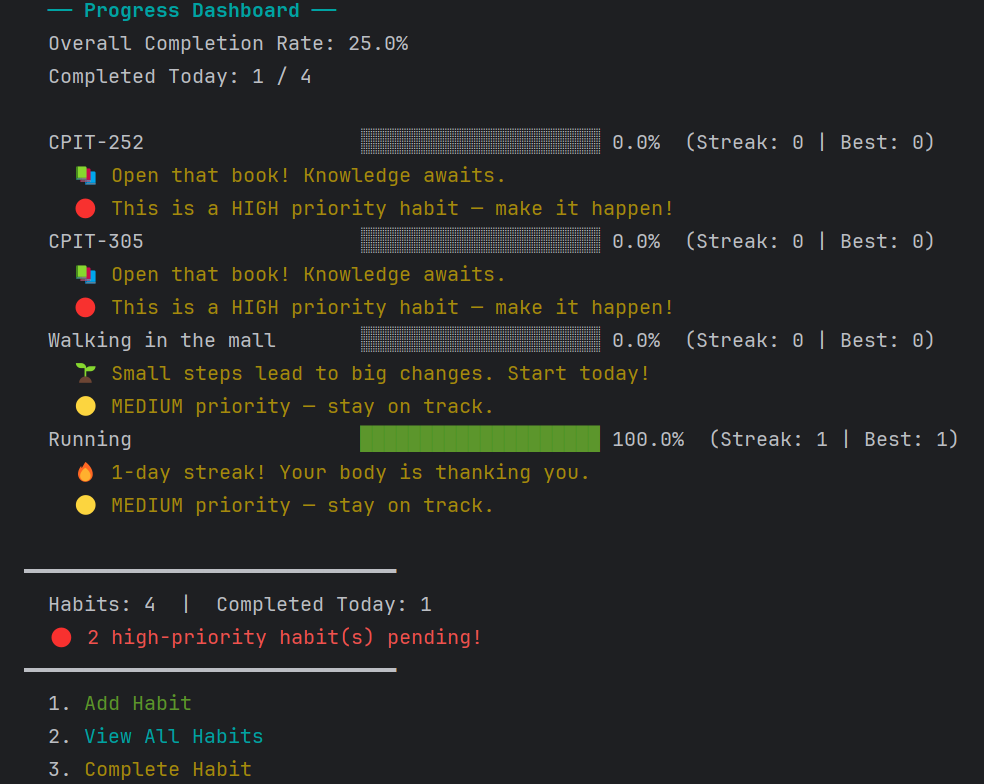
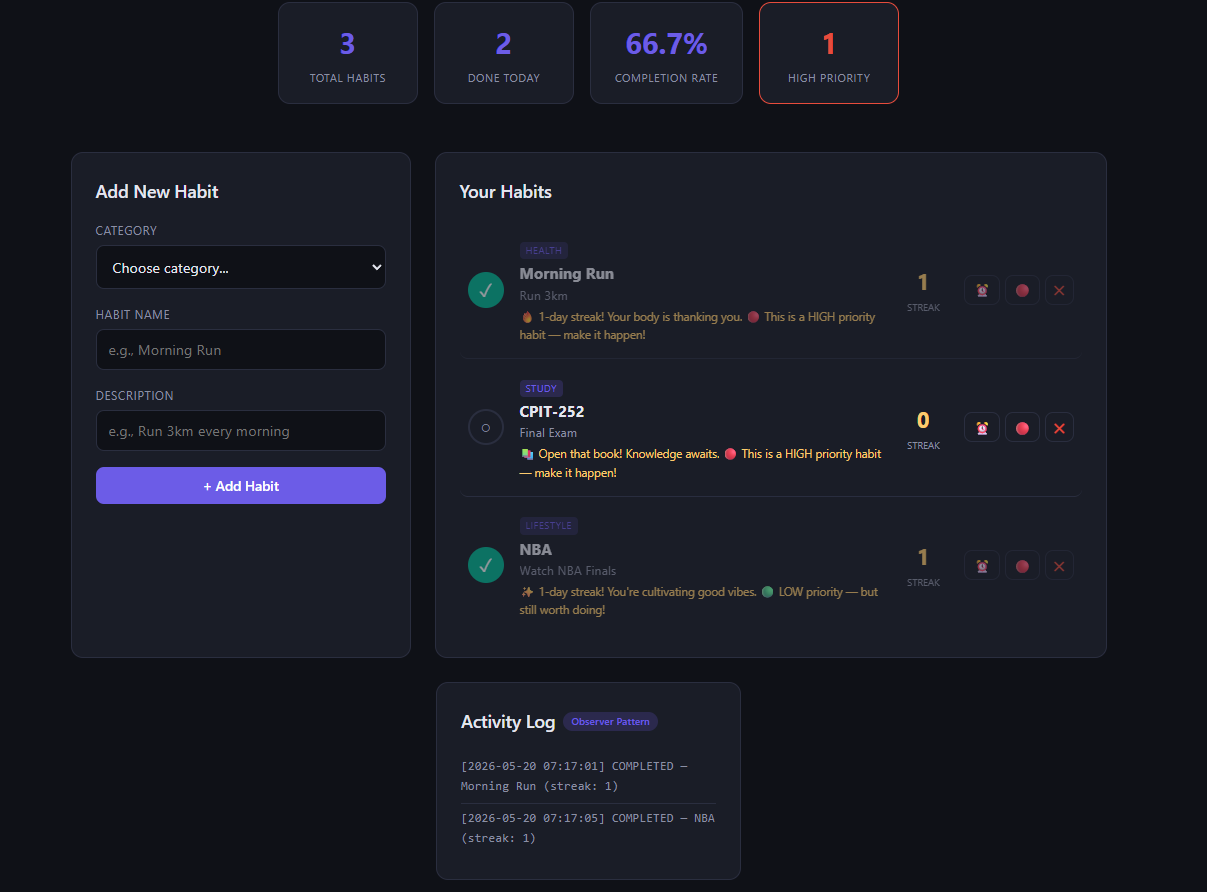
Enhance README.md file and closed #30

diff --git a/README.md b/README.md
@@ -1,84 +1,166 @@
-# HabitNova: Smart Habit Tracker
+<div align="center">
 
+# ✦ HabitNova
 
-## Description
-A console-based application designed to help students build and maintain consistent daily habits.
-Most existing trackers are either too simple (plain checklists) or too complex (full productivity suites). HabitNova
-sits in the middle — a focused, intelligent habit tracker that lets users define personal habits across categories,
-track daily completion, monitor streaks and progress, and receive motivational feedback that encourages consistency.
+**A smart habit tracker that helps you build consistency — powered by design patterns.**
+
+![Java](https://img.shields.io/badge/Java-17-orange?style=flat-square&logo=openjdk)
+![Spring Boot](https://img.shields.io/badge/Spring%20Boot-3.3.5-brightgreen?style=flat-square&logo=springboot)
+![H2](https://img.shields.io/badge/Database-H2-blue?style=flat-square)
+![Thymeleaf](https://img.shields.io/badge/Template-Thymeleaf-005F0F?style=flat-square)
+![Docker](https://img.shields.io/badge/Docker-Ready-2496ED?style=flat-square&logo=docker)
+![License](https://img.shields.io/badge/License-MIT-lightgrey?style=flat-square)
+
+</div>
+
+---
+
+## What is HabitNova?
+
+Most habit trackers are either too basic (plain checklists) or too complex (full productivity suites). HabitNova sits in the middle — a focused, intelligent tracker that lets you define habits across categories, track daily completion, monitor streaks and progress, and receive motivational feedback that adapts to your consistency.
+
+Built as a CPIT-252 Software Design Patterns project, HabitNova demonstrates three GoF patterns working together in a real application: **Factory Method**, **Decorator**, and **Observer**.
+
+---
 
 ## Features
 
-### ✅ Implemented Features (Completed)
-* **Project & Repository Setup:** Core project structure initialized with Maven build configuration, package layout (`model`, `view`, `controller`, `factory`, `decorator`), and GitHub repository.
-* **Core Architecture (MVC):** Clean separation of concerns with `Habit` model classes, `HabitController` orchestration layer, and `ConsoleView` for user interaction.
-* **Factory Method Design Pattern (Creational):** `HabitFactory` centralizes the creation of `HealthHabit`, `StudyHabit`, and `LifestyleHabit` subclasses, decoupling client code from concrete classes and supporting easy extension to new categories.
-* **Decorator Design Pattern (Structural):** `ReminderDecorator` and `PriorityDecorator` dynamically add reminder times and priority levels to any habit at runtime — stackable on a single habit without subclass explosion.
-* **Streak Engine:** Tracks current streak and all-time best streak per habit, with proper recalculation when completions are undone.
-* **Interactive Console UI:** ANSI-colored menu system with progress dashboard, visual progress bars, high-priority alerts, and context-aware motivational messages.
-* **Comprehensive Test Suite:** 47 unit tests covering Factory Method, Decorator behavior, stacked decorators, and core controller operations — all passing.
+- 🏗 Create habits across three categories — Health, Study, Lifestyle
+- 🔥 Streak engine tracks current and all-time best streaks per habit
+- ⏰ Add reminders to any habit at runtime (Decorator pattern)
+- 🔴 Set priority levels (HIGH / MEDIUM / LOW) on any habit (Decorator pattern)
+- 🔔 Milestone celebrations at 7, 30, and 100 day streaks (Observer pattern)
+- ⚠ Streak-break warnings with recovery encouragement (Observer pattern)
+- 📋 Activity log captures all completion events in real time (Observer pattern)
+- 💾 Data persists across restarts via H2 embedded database
+- 🌐 Web dashboard with dark theme UI — works from any browser
+- 🖥 Console mode also available for terminal usage
+- 🐳 Dockerized — one command to build and run
 
-### ⏳ Planned Features (Backlog)
-* **Behavioral Pattern (Observer):** Implement Observer pattern for streak alerts and milestone notifications (Stage 3).
-* **Data Persistence:** Save habits and decorator state to a local JSON file so habits survive between application runs.
-* **Habit History View:** Display the last 7 days per habit as a completion grid to help users identify patterns.
-* **Weekly Progress Export (CSV):** Export habit performance summaries for external tracking or sharing with accountability partners.
-* **Additional Habit Categories:** Extend beyond Health/Study/Lifestyle to include Finance, Social, and Creative categories.
-* **Strategy Pattern for Streak Rules:** Allow users to choose strict, flexible, or weekday-only streak calculation modes.
-* **Graphical Frontend:** Replace the console view with a JavaFX or web-based UI/UX layer.
+---
 
-### 🛑 Deferred Features (Won't Implement / Future)
-* **Cloud Sync & Multi-Device Support:** Cross-device synchronization has been deferred. The current scope focuses on a single-user local application; cloud features fall outside the design-patterns curriculum and will be revisited in a future release.
-* **Push Notifications:** Real-time OS-level reminder notifications are deferred. Reminders are currently displayed in-app only, since native notification systems are platform-specific and outside the scope of this stage.
+## Tech Stack
 
-## 🛠 Prerequisites
-To run this project, you must have the following installed:
-* **Java 17 or 21** (JDK)
-* **Apache Maven**
+| Layer | Technology |
+|---|---|
+| Language | Java 17 |
+| Framework | Spring Boot 3.3.5 |
+| Template Engine | Thymeleaf |
+| Database | H2 (embedded, file-based) |
+| ORM | Hibernate / Spring Data JPA |
+| Frontend | HTML + CSS (dark theme) + Vanilla JS |
+| Build Tool | Maven |
+| Containerization | Docker + Docker Compose |
+| Testing | JUnit 5 + Spring MockMvc + JaCoCo |
 
-## Usage
+---
 
-To build and run the app, use:
+## Getting Started
 
-- **Option 1: Run directly via Maven**
-  - Open the terminal and run the following command:
-```bash
-mvn clean compile exec:java -Dexec.mainClass="com.habitnova.HabitNovaApp"
-```
+### Requirements
 
-- **Option 2: Build and run the executable JAR**
-  - Open the terminal and run the following command:
-```bash
-mvn clean package
-```
+- Java 17 or higher
+- Maven 3.6 or higher
+
+### Run the project
 
 ```bash
-cd target
-java -jar course-project-1.0-SNAPSHOT.jar
+# 1. Clone the repository
+git clone https://github.com/cpit252-spring-26-IT1/project-habitnova
+cd project-habitnova
+
+# 2. Build the project
+mvn clean install
+
+# 3. Run it
+mvn spring-boot:run
 ```
 
-- **Option 3: Run the test suite**
+Then open your browser and go to:
+
+```
+http://localhost:8080
+```
+
+### Run with Docker
+
+```bash
+docker compose up --build
+```
+
+The app starts at `http://localhost:8080`. Habit data is stored in a named Docker volume and survives container restarts.
+
+### Run the test suite
+
 ```bash
 mvn test
 ```
 
-## Design Patterns
+Coverage report is generated at `target/site/jacoco/index.html`.
 
-| Stage | Type | Pattern | Status |
-|:------|:-----|:--------|:------:|
-| Stage 1 | Creational | Factory Method | ✅ |
-| Stage 2 | Structural | Decorator | ✅ |
-| Stage 3 | Behavioral | Observer | 🔜 |
+---
+
+## Project Structure
+
+```
+project-habitnova/
+├── src/main/java/sa/edu/kau/fcit/cpit252/project/
+│   ├── model/            # Habit class hierarchy (abstract Habit + 3 subclasses)
+│   ├── factory/          # Factory Method pattern — HabitFactory
+│   ├── decorator/        # Decorator pattern — Reminder & Priority wrappers
+│   ├── observer/         # Observer pattern — Milestone, StreakBreak, CompletionLog
+│   ├── entity/           # JPA entity for H2 database persistence
+│   ├── repository/       # Spring Data JPA repository
+│   ├── service/          # Business logic — orchestrates all patterns + DB
+│   ├── controller/       # Web controller (Thymeleaf) + REST API controller
+│   ├── dto/              # Request DTOs with Bean Validation
+│   └── view/             # Console UI (legacy terminal mode)
+├── src/main/resources/
+│   ├── templates/        # Thymeleaf HTML dashboard
+│   ├── static/           # CSS + JavaScript
+│   └── application.properties
+├── src/test/             # JUnit 5 test suite + JaCoCo coverage
+├── Dockerfile            # Multi-stage Docker build
+├── docker-compose.yml    # One-command container orchestration
+└── pom.xml
+```
+
+---
+
+## Design Patterns Used
+
+| Stage | Category | Pattern | Description |
+|:------|:---------|:--------|:------------|
+| Stage 1 | Creational | **Factory Method** | `HabitFactory` creates `HealthHabit`, `StudyHabit`, or `LifestyleHabit` based on a category string — the caller never touches concrete classes |
+| Stage 2 | Structural | **Decorator** | `ReminderDecorator` and `PriorityDecorator` wrap any habit to add reminder times or priority levels at runtime — stackable without subclass explosion |
+| Stage 3 | Behavioral | **Observer** | `Habit` acts as the Subject; `MilestoneObserver`, `StreakBreakObserver`, and `CompletionLogObserver` react to completion events independently |
+
+---
 
 ## Screenshots
+
 ![HabitNova Main Menu](assets/ui-screenshot.png)
 ![HabitNova Progress Dashboard](assets/ui-screenshot2.png)
 
+---
+
 ## Team
+
 | Name | Student ID |
 |:-----|:----------:|
 | Fahad Alshehri | 2338900 |
 | Alwaleed Alrefaei | 2345441 |
 
+**Course:** CPIT-252 Software Design Patterns — King Abdulaziz University
+
+---
+
 ## License
-This project is licensed under the MIT License. See the [LICENSE](LICENSE) file for details.
+
+MIT — free to use, modify, and share. See the [LICENSE](LICENSE) file for details.
+
+---
+
+<div align="center">
+  Made by <b>Fahad & Alwaleed</b> at King Abdulaziz University
+</div>
